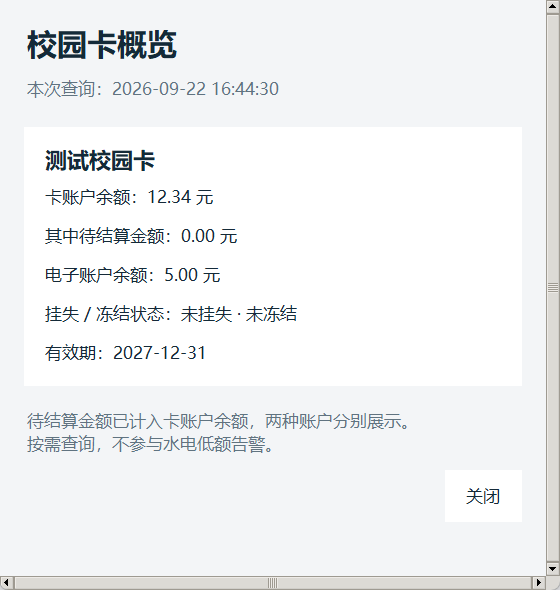
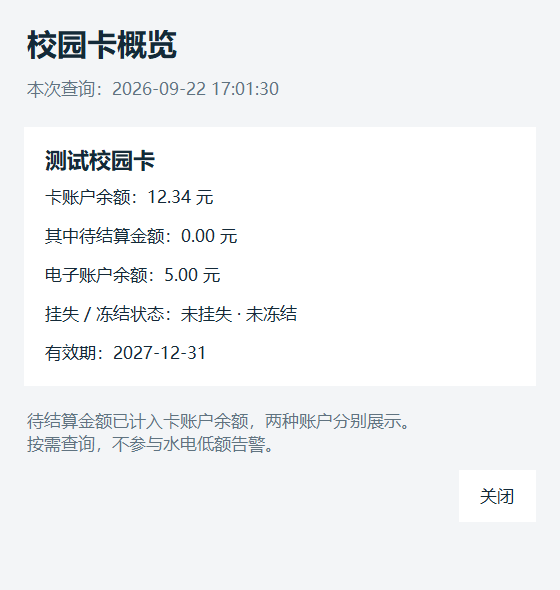
修复首页自适应布局并验证常见分辨率与缩放

Changed region(s): [[0.0, 0.0, 1.0, 1.0], [0.8196, 0.8237, 0.9411, 0.8542], [0.3946, 0.122, 0.4554, 0.1831]]

diff --git a/cardsclaim/desktop/gui.py b/cardsclaim/desktop/gui.py
@@ -23,7 +23,7 @@ from .app import stop
 from .controller import Controller, default_config
 from .model import validate, TZ
 from .store import DesktopStore, installation
-from .layout import ScrollPane, fit_window
+from .layout import ScrollPane, FlowFrame, fit_window, home_size
 from .startup import StartupRegistration
 from ..api import QueryError
 from .network import NetworkMonitor
@@ -108,11 +108,12 @@ class DesktopWindow:
         self.outer.pack(fill='both', expand=True)
         header = tk.Frame(self.outer, bg=BG)
         header.grid(row=0, column=0, sticky='ew')
-        tk.Label(header, text='广财校园工具箱', bg=BG, fg=INK, font=('Microsoft YaHei UI', 23, 'bold')).pack(side='left')
-        tk.Label(header, text='让校园生活更方便', bg=BG, fg=MUTED).pack(side='left', padx=14, pady=(12, 0))
+        self.brand_label = tk.Label(header, text='广财校园工具箱', bg=BG, fg=INK, font=('Microsoft YaHei UI', 23, 'bold'))
+        self.brand_label.pack(anchor='w')
+        tk.Label(header, text='让校园生活更方便', bg=BG, fg=MUTED).pack(anchor='w', pady=(4, 0))
         self.outer.columnconfigure(0, weight=1)
         self.outer.rowconfigure(1, weight=1)
-        self.body_scroll = ScrollPane(self.outer, bg=BG)
+        self.body_scroll = ScrollPane(self.outer, bg=BG, horizontal=False)
         self.body_scroll.grid(row=1, column=0, sticky='nsew', pady=(14, 8))
         self.body = tk.Frame(self.body_scroll.content, bg=BG)
         self.body.pack(fill='both', expand=True)
@@ -121,8 +122,8 @@ class DesktopWindow:
                  justify='left', wraplength=680).grid(row=2, column=0, sticky='ew')
         footer = tk.Frame(self.outer, bg=BG)
         footer.grid(row=3, column=0, sticky='ew', pady=(10, 0))
-        tk.Label(footer, text='关闭窗口后留在托盘 · 电脑开机且联网时自动查询', bg=BG, fg=MUTED,
-                 font=('Microsoft YaHei UI', 9)).pack(side='left')
+        tk.Label(footer, text='关闭窗口后留在托盘运行', bg=BG, fg=MUTED,
+                 font=('Microsoft YaHei UI', 9)).pack(anchor='w', pady=(0, 6))
         self.button(footer, '关闭程序', self.quit, secondary=True, tracked=False).pack(side='right')
         self.button(footer, '使用指南', self.show_guide, secondary=True, tracked=False).pack(side='right', padx=8)
         if tray:
@@ -135,9 +136,11 @@ class DesktopWindow:
             self.setup()
             if autostart and self.store.read('login-draft', {}).get('token'):
                 root.after(200, self.begin_setup)
-        fit_window(root, 1000, 900, saved=store.read('preferences', {}).get('window_bounds'))
+        fit_window(root, *home_size(root), saved=store.read('preferences', {}).get('window_bounds'))
         self.window_save_after = None
         root.bind('<Configure>', self.window_changed, add='+')
+        self.reflow_pending = None
+        root.bind('<Configure>', self.schedule_reflow, add='+')
         root.after(100, self.pump)
         if autostart:
             self.network.start()
@@ -275,6 +278,7 @@ class DesktopWindow:
         for child in self.body.winfo_children():
             child.destroy()
         self.buttons = []
+        self.balance_cards = []
         self.body_scroll.canvas.yview_moveto(0)
 
     def setup(self):
@@ -294,13 +298,13 @@ class DesktopWindow:
         self.setup_cfg = copy.deepcopy(draft.get('config') or account.get('config') or default_config())
         self.selected = {}
         self.select_widgets = []
-        row = tk.Frame(panel, bg='white')
-        row.pack(anchor='w', pady=(12, 8))
+        row = FlowFrame(panel, bg='white')
+        row.pack(fill='x', pady=(12, 8))
         for item in ITEMS:
             var = tk.BooleanVar(value=item in self.setup_cfg['items'])
             self.selected[item] = var
             widget = self.checkbox(row, NAMES[item], var)
-            widget.pack(side='left', padx=(0, 15))
+            row.add(widget)
             self.select_widgets.append(widget)
         tk.Label(panel, text="常驻期间每 30 分钟自动查询，余额不足时提醒。\n提醒金额可以稍后在设置中修改。",
                  bg='white', fg=MUTED, justify='left', anchor='w').pack(anchor='w', pady=(6, 0))
@@ -328,20 +332,24 @@ class DesktopWindow:
         top = tk.Frame(self.body, bg=BG)
         top.pack(fill='x')
         tk.Label(top, text='你的校园余额', bg=BG, fg=INK,
-                 font=('Microsoft YaHei UI', 21, 'bold')).pack(side='left')
-        self.button(top, '设置', self.settings, secondary=True).pack(side='right')
-        self.button(top, '查询历史', self.history, secondary=True).pack(side='right', padx=8)
-        self.button(top, '校园卡', self.card_overview, secondary=True).pack(side='right')
+                 font=('Microsoft YaHei UI', 21, 'bold')).pack(anchor='w', pady=(0, 8))
+        actions = FlowFrame(top, bg=BG)
+        actions.pack(fill='x')
+        for title, command in [('校园卡', self.card_overview), ('查询历史', self.history), ('设置', self.settings)]:
+            actions.add(self.button(actions, title, command, secondary=True))
         self.updated = tk.StringVar()
         tk.Label(self.body, textvariable=self.updated, bg=BG, fg=MUTED).pack(anchor='w', pady=(8, 20))
         self.network_switch(self.body)
         cards = tk.Frame(self.body, bg=BG)
+        self.balance_cards = []
+        self.cards_frame = cards
         cards.pack(fill='x')
         cfg = self.store.read('account', {})['config']
         self.amounts = {}
         for index, item in enumerate(cfg['items']):
             cards.columnconfigure(index, weight=1, uniform='cards')
             card = tk.Frame(cards, bg='white', padx=20, pady=23)
+            self.balance_cards.append(card)
             card.grid(row=0, column=index, sticky='nsew', padx=(0 if index == 0 else 6, 6))
             tk.Label(card, text=NAMES[item], bg='white', fg=MUTED).pack(anchor='w')
             var = tk.StringVar(value='—')
@@ -363,6 +371,47 @@ class DesktopWindow:
         self.cancel_button = self.button(row, '取消登录', self.cancel_login, secondary=True, tracked=False)
         self.cancel_button.configure(state='disabled')
         self.render_state()
+
+    def schedule_reflow(self, event=None):
+        if self.reflow_pending is None and not self.closing:
+            self.reflow_pending = self.root.after_idle(self.reflow)
+
+    def reflow(self, event=None):
+        """Keep the home page within the viewport; stack cards when necessary."""
+        self.reflow_pending = None
+        width = self.body.winfo_width()
+        scale = float(self.root.tk.call('tk', 'scaling'))
+        brand_size = min(23, max(12, int((self.root.winfo_width() - 70) / (8 * scale))))
+        self.brand_label.configure(font=('Microsoft YaHei UI', brand_size, 'bold'))
+        if width < 10:
+            return
+        cards = getattr(self, 'balance_cards', [])
+        if cards:
+            minimum = int(240 * float(self.root.tk.call('tk', 'scaling')) / (96 / 72))
+            columns = max(1, min(len(cards), width // minimum))
+            for index in range(len(cards)):
+                self.cards_frame.columnconfigure(index, weight=1 if index < columns else 0,
+                                                 uniform='cards' if index < columns else '')
+            for index, card in enumerate(cards):
+                card.grid(row=index // columns, column=index % columns,
+                          padx=(0, 8 if index % columns < columns - 1 else 0), pady=(0, 8))
+        def wrap(parent):
+            for widget in parent.winfo_children():
+                if isinstance(widget, tk.Label):
+                    if parent.winfo_width() < 10:
+                        continue
+                    available = max(100, min(width - 16, parent.winfo_width() - 48))
+                    if int(widget.cget('wraplength')) != available:
+                        widget.configure(wraplength=available, justify='left')
+                else:
+                    wrap(widget)
+        wrap(self.body)
+        for area in (self.outer.grid_slaves(row=0)[0], self.outer.grid_slaves(row=3)[0]):
+            for widget in area.winfo_children():
+                if isinstance(widget, tk.Label):
+                    widget.configure(wraplength=max(100, self.outer.winfo_width() - 60), justify='left')
+        for widget in self.outer.grid_slaves(row=2):
+            widget.configure(wraplength=max(100, self.outer.winfo_width() - 60))
 
     def render_state(self):
         if self.page != 'dashboard':
@@ -721,9 +770,9 @@ class DesktopWindow:
         row = tk.Frame(parent, bg='white', padx=12, pady=8)
         row.pack(fill='x', pady=(0, 14))
         self.checkbox(row, '校园网自动登录', self.network_enabled,
-                      self.toggle_network).pack(side='left')
+                      self.toggle_network).pack(anchor='w')
         tk.Label(row, textvariable=self.network_status, bg='white', fg=MUTED,
-                 wraplength=440, justify='left').pack(side='left', padx=16)
+                 wraplength=440, justify='left').pack(anchor='w', padx=5, pady=(4, 0))
 
     def toggle_network(self):
         cfg = self.network.snapshot()

diff --git a/tests/test_responsive_layout.py b/tests/test_responsive_layout.py
@@ -1,0 +1,81 @@
+"""Real Tk geometry checks with synthetic state; no school/network requests."""
+import ctypes
+import os
+from pathlib import Path
+import tempfile
+import tkinter as tk
+import unittest
+from unittest.mock import patch
+
+from cardsclaim.desktop.gui import DesktopWindow
+from cardsclaim.desktop.controller import default_config
+from cardsclaim.desktop.store import DesktopStore
+
+
+class ResponsiveLayoutTests(unittest.TestCase):
+    def test_home_pages_fit_across_widths_and_scaling(self):
+        ctypes.windll.shcore.SetProcessDpiAwareness(1)
+        def descendants(widget):
+            for child in widget.winfo_children():
+                yield child
+                yield from descendants(child)
+        for scale in (1.333333, 1.666667, 2.0, 2.333333, 2.666667):
+            with tempfile.TemporaryDirectory() as directory:
+                root = tk.Tk()
+                root.tk.call('tk', 'scaling', scale)
+                store = DesktopStore(directory)
+                with patch('cardsclaim.desktop.layout.work_area', return_value=(0, 0, 3840, 2160)):
+                    app = DesktopWindow(root, store, autostart=False, tray=False)
+                try:
+                    for page in ('setup', 'dashboard'):
+                        if page == 'dashboard':
+                            cfg = default_config()
+                            cfg['items'] = ['electricity', 'tap_water', 'liwang']
+                            store.write('account', {'token': 'synthetic', 'config': cfg})
+                            app.dashboard()
+                        sizes = [(1000,900), (800,600), (640,480), (480,640)]
+                        for sw, sh in ((1366,768), (1920,1080), (1920,1200), (2560,1440), (2560,1600)):
+                            ratio = scale / (96 / 72)
+                            sizes.append((min(round(920 * ratio), sw - 48), min(round(760 * ratio), sh - 128)))
+                        for width, height in sizes:
+                            with self.subTest(scale=scale, page=page, size=(width,height)):
+                                root.geometry(f'{width}x{height}+20+20')
+                                root.update()
+                                root.update_idletasks()
+                                if os.environ.get('CARDSCLAIM_LAYOUT_SCREENSHOTS'):
+                                    from PIL import ImageGrab
+                                    folder = Path('build/layout-matrix')
+                                    folder.mkdir(parents=True, exist_ok=True)
+                                    root.attributes('-topmost', True)
+                                    root.update()
+                                    x, y = root.winfo_rootx(), root.winfo_rooty()
+                                    ImageGrab.grab(bbox=(x, y, x + width, y + height), all_screens=True).save(folder / f'{page}-{scale}-{width}.png')
+                                pane = app.body_scroll
+                                self.assertEqual(pane.canvas.xview(), (0.0, 1.0))
+                                self.assertFalse(pane.horizontal.winfo_ismapped())
+                                self.assertGreater(pane.canvas.winfo_height(), 60)
+                                left = pane.canvas.winfo_rootx()
+                                right = left + pane.canvas.winfo_width()
+                                for widget in descendants(app.body):
+                                    if not widget.winfo_ismapped():
+                                        continue
+                                    self.assertGreaterEqual(widget.winfo_rootx(), left - 1, str(widget))
+                                    self.assertLessEqual(widget.winfo_rootx() + widget.winfo_width(), right + 1, str(widget))
+                                    if isinstance(widget, tk.Label):
+                                        self.assertGreaterEqual(widget.winfo_width(), widget.winfo_reqwidth(), widget.cget('text'))
+                                    if isinstance(widget, tk.Button):
+                                        self.assertGreaterEqual(widget.winfo_width(), widget.winfo_reqwidth(), widget.cget('text'))
+                                footer = [w for w in descendants(app.outer) if isinstance(w, tk.Button)
+                                          and w.cget('text') in ('关闭程序', '使用指南')]
+                                self.assertEqual(len(footer), 2)
+                                for widget in footer:
+                                    self.assertTrue(widget.winfo_ismapped())
+                                    self.assertGreaterEqual(widget.winfo_width(), widget.winfo_reqwidth())
+                                    self.assertLessEqual(widget.winfo_rooty()+widget.winfo_height(), root.winfo_rooty()+height)
+                finally:
+                    app.closing = True
+                    app.network.close()
+                    for timer in root.tk.call('after', 'info'):
+                        root.after_cancel(timer)
+                    root.destroy()
+

diff --git a/cardsclaim/desktop/layout.py b/cardsclaim/desktop/layout.py
@@ -31,6 +31,14 @@ def work_area(window, point=None):
     return 0, 0, window.winfo_screenwidth(), window.winfo_screenheight()
 
 
+def home_size(window):
+    """Choose an initial size in logical pixels, bounded by monitor work area."""
+    scale = float(window.tk.call('tk', 'scaling')) / (96 / 72)
+    left, top, right, bottom = work_area(window, window.winfo_pointerxy())
+    return (min(round(920 * scale), right - left - 48),
+            min(round(760 * scale), bottom - top - 80))
+
+
 def fit_window(window, width=None, height=None, saved=None):
     owner = window.master.winfo_toplevel() if window.master else None
     if saved and not all(isinstance(saved.get(k), int) for k in ('x', 'y', 'width', 'height')):
@@ -79,8 +87,9 @@ def place_window(window, x, y):
 
 
 class ScrollPane(ttk.Frame):
-    def __init__(self, parent, bg='white'):
+    def __init__(self, parent, bg='white', *, horizontal=True):
         super().__init__(parent)
+        self.allow_horizontal = horizontal
         self.canvas = tk.Canvas(self, bg=bg, highlightthickness=0, bd=0)
         self.content = tk.Frame(self.canvas, bg=bg)
         self.item = self.canvas.create_window(0, 0, window=self.content, anchor='nw')
@@ -99,10 +108,18 @@ class ScrollPane(ttk.Frame):
         self.bind('<Destroy>', self.cleanup, add='+')
 
     def update_region(self, event=None):
-        width = max(self.content.winfo_reqwidth(), self.canvas.winfo_width())
+        width = max(self.content.winfo_reqwidth(), self.canvas.winfo_width()) if self.allow_horizontal else self.canvas.winfo_width()
         height = max(self.content.winfo_reqheight(), self.canvas.winfo_height())
         self.canvas.itemconfigure(self.item, width=width, height=height)
         self.canvas.configure(scrollregion=(0, 0, width, height))
+        if self.allow_horizontal and width > self.canvas.winfo_width() + 1:
+            self.horizontal.grid()
+        else:
+            self.horizontal.grid_remove()
+        if height > self.canvas.winfo_height() + 1:
+            self.vertical.grid()
+        else:
+            self.vertical.grid_remove()
 
     def wheel(self, event):
         widget = event.widget
@@ -119,3 +136,33 @@ class ScrollPane(ttk.Frame):
                 self.top.unbind('<MouseWheel>', self.binding)
             except tk.TclError:
                 pass
+
+
+class FlowFrame(tk.Frame):
+    """Wrap controls without coupling column widths across separate rows."""
+    def __init__(self, parent, **kwargs):
+        super().__init__(parent, **kwargs)
+        self.controls = []
+        self.bind('<Configure>', self.reflow)
+
+    def add(self, widget):
+        self.controls.append(widget)
+        widget.place(x=0, y=0)
+        self.after_idle(self.reflow)
+
+    def reflow(self, event=None):
+        limit = self.winfo_width()
+        if limit < 10:
+            return
+        x = y = line_height = 0
+        for widget in self.controls:
+            width, height = widget.winfo_reqwidth(), widget.winfo_reqheight()
+            if x and x + width > limit:
+                y += line_height + 8
+                x = line_height = 0
+            widget.place(x=x, y=y, width=min(width, limit), height=height)
+            x += width + 8
+            line_height = max(line_height, height)
+        desired = y + line_height
+        if int(self.cget('height')) != desired:
+            self.configure(height=desired)

diff --git a/cardsclaim/desktop/gui_smoke.py b/cardsclaim/desktop/gui_smoke.py
@@ -58,8 +58,11 @@ def run(report):
             target.attributes('-topmost', True)
             target.update()
             time.sleep(.3)
-            box = (target.winfo_rootx(), target.winfo_rooty(), target.winfo_rootx() + target.winfo_width(), target.winfo_rooty() + target.winfo_height())
-            ImageGrab.grab(bbox=box).save(report.with_name(name + '.png'))
+            from ctypes import wintypes
+            ancestor = ctypes.windll.user32.GetAncestor
+            ancestor.argtypes = [wintypes.HWND, wintypes.UINT]
+            ancestor.restype = wintypes.HWND
+            ImageGrab.grab(window=ancestor(target.winfo_id(), 2)).save(report.with_name(name + '.png'))
             target.attributes('-topmost', False)
 
         def step_one():

diff --git a/windows/entry.py b/windows/entry.py
@@ -22,5 +22,5 @@ if __name__ == '__main__':
             raise SystemExit(1)
         import ctypes
         message = str(error) if isinstance(error, ValueError) else '软件启动失败，请检查安装目录和数据目录是否可访问，或重新运行安装器修复。原有数据会保留。'
-        ctypes.windll.user32.MessageBoxW(None, message, '校园余额助手', 0x10)
+        ctypes.windll.user32.MessageBoxW(None, message, '广财校园工具箱', 0x10)
         raise

diff --git a/docs/RESPONSIVE.md b/docs/RESPONSIVE.md
@@ -1,0 +1,28 @@
+# 窗口适配与验证
+
+布局以应用窗口的可用宽度为依据，不按显示器英寸建立固定模板。
+
+- 初始窗口以 920 × 760 逻辑像素为目标，按 Tk 的当前字体缩放计算物理尺寸，并限制在显示器工作区内；保留用户调整后的窗口位置和大小。
+- 首页宽度跟随视口。卡片根据缩放后的最小可读宽度排列，空间不足时换行；操作按钮和首次设置选项自动换行。
+- 文字按容器宽度折行。主窗口底部操作区固定，内容超出高度时纵向滚动。其他包含宽表格的页面可保留必要的横向滚动。
+- 滚动条仅在内容超出时显示，不以隐藏横向滚动条来掩盖首页内容越界。
+
+## 自动化验收
+
+`tests/test_responsive_layout.py` 在真实 Tk 窗口中使用模拟账户，覆盖首次设置和三个余额项目的首页。
+
+| 项目 | 覆盖 |
+| --- | --- |
+| 目标分辨率 | 1366×768、1920×1080、1920×1200、2560×1440、2560×1600 |
+| 字体缩放 | 100%、125%、150%、175%、200% |
+| 手动调整窗口 | 1000×900、800×600、640×480、480×640 |
+| 检查 | 首页无横向溢出，控件在视口内，文字与按钮宽度足够，底部操作按钮可见 |
+
+共 90 个页面 / 尺寸 / 缩放组合。分辨率通过限制可用尺寸模拟，缩放通过 Tk 字体缩放模拟；这不等同于在所有实体显示器和 Windows DPI 配置上的实测。打包版另运行完整普通窗口、小屏界面回归。
+
+当前应用使用系统 DPI 感知。跨不同 DPI 显示器拖动时的实时 DPI 切换尚未完整验收，不声称已实现 per-monitor-v2 支持。
+
+## 参考
+
+- [Microsoft：窗口尺寸、断点与有效像素](https://learn.microsoft.com/en-us/windows/apps/design/layout/screen-sizes-and-breakpoints-for-responsive-design)
+- [TkDocs：Grid 布局与窗口缩放](https://tkdocs.com/tutorial/grid.html)

diff --git a/README.md b/README.md
@@ -58,7 +58,7 @@
 
 常驻期间每 30 分钟查询一次，手动刷新后重新计时：电量低于 20 度、自来水低于 1 元提醒；力王热水默认不提醒，开启提醒后按现金余额判断。电量单位为度，水费单位为元。同一低额周期只提醒一次。
 
-主窗口默认以 1000×900 打开，小屏会按可用区域自动缩小。首次在鼠标所在屏幕居中，之后记住调整后的位置和大小；弹窗跟随主窗口居中。主窗口底部按钮固定可见，放不下的内容可滚动查看。
+主窗口按系统缩放比例计算初始尺寸，并限制在屏幕可用区域内。首次在鼠标所在屏幕居中，之后记住调整后的位置和大小；弹窗跟随主窗口居中。首页文字随宽度换行，余额卡片、功能按钮和首次设置选项在窄窗口自动换行；底部按钮固定可见，内容仅需纵向滚动。
 
 ## 校园网自动登录
 
@@ -125,6 +125,8 @@ py -3.13 -m venv .venv-windows
 .\.venv-windows\Scripts\python.exe -m pip install --require-hashes -r requirements.lock
 .\.venv-windows\Scripts\python.exe -m cardsclaim.desktop.app
 ```
+
+布局验证范围与实现原则见 [窗口适配说明](docs/RESPONSIVE.md)。
 
 ## 测试与打包
 
